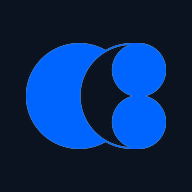
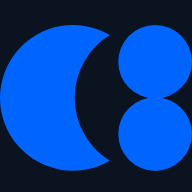
fix(brand): restore definitive 9q798dbg2 assets and SVG lockup shell
Recover Rubio/Maria binaries, favicon suite and symbol from the rendered
Vercel baseline; switch BrandLockup to official SVG masters at h-8/h-9 and
align crop/tokens with computed baseline values.

diff --git a/app/globals.css b/app/globals.css
@@ -59,13 +59,13 @@
 
     --muted: 220 16% 94%;
     /* Institutional deepening — charcoal body authority */
-    --muted-foreground: 220 16% 22%;
+    --muted-foreground: 220 10% 40%;
     --body-secondary: 220 12% 32%;
 
-    --accent: 0 93% 34%;
+    --accent: 0 99% 37%;
     --accent-foreground: 0 0% 100%;
 
-    --destructive: 0 93% 34%;
+    --destructive: 0 99% 37%;
     --destructive-foreground: 0 0% 100%;
 
     --border: 220 14% 88%;
@@ -82,9 +82,9 @@
     --brand-blue-light: 210 100% 63%; /* #42A1FF */
     --brand-blue-mid: 212 100% 49%; /* #0074F8 */
     --brand-blue-deep: 214 100% 44%; /* #0062DE royal */
-    --brand-red: 0 93% 34%; /* #A80606 */
+    --brand-red: 0 99% 37%; /* definitive baseline computed */
     --brand-cream: 48 69% 90%; /* #F7F0D4 — strategic highlight only */
-    --brand-dark: 0 0% 17%; /* #2B2B2B charcoal */
+    --brand-dark: 0 0% 21%; /* definitive baseline charcoal */
     --brand-off-white: 0 0% 98%; /* #FAFAFA */
     --brand-navy: 220 48% 8%; /* #0B1220 primary environment */
 
@@ -95,14 +95,26 @@
     --shadow-card: 0 1px 3px 0 rgb(0 0 0 / 0.06), 0 1px 2px -1px rgb(0 0 0 / 0.06);
     --shadow-card-hover: 0 4px 12px -2px rgb(0 0 0 / 0.08), 0 2px 6px -2px rgb(0 0 0 / 0.04);
 
+    /* Text tokens from definitive deployment 9q798dbg2 */
+    --text-primary: #0b1220;
+    --text-secondary: #3d4654;
+    --text-muted: #5c6573;
+    --text-label: #be0100;
+    --text-link: #0052c4;
+    --text-accent: #0052c4;
+    --text-inverse: #fafafa;
+    --text-primary-on-dark: #f7f8fa;
+    --text-secondary-on-dark: rgba(247, 248, 250, 0.84);
+    --text-muted-on-dark: rgba(247, 248, 250, 0.66);
+    --text-label-on-dark: rgba(247, 248, 250, 0.55);
+    --text-link-on-dark: #9ec5ff;
+
     /* Existing site aliases (components, inline styles) */
     --bg-base: hsl(var(--background));
     --surface-1: hsl(var(--surface-elevated));
     --surface-2: #ecefea;
     --surface-card: #ffffff;
-    --text-primary: hsl(var(--foreground));
-    --text-muted: hsl(var(--muted-foreground));
-    --text-soft: rgba(26, 29, 33, 0.55);
+    --text-soft: var(--text-muted);
     --primary-blue: hsl(var(--primary));
     --primary-blue-hover: #214c82;
     --accent-red: hsl(var(--accent));
@@ -110,14 +122,14 @@
     --off-black: hsl(var(--surface-elevated));
     --card-hover: #f5f6f3;
     --card-bg: #ffffff;
-    --border-light: rgba(26, 29, 33, 0.06);
+    --border-light: rgba(11, 18, 32, 0.08);
     --blue: hsl(var(--primary));
     --blue-light: hsl(var(--primary));
     --blue-dim: hsl(var(--primary) / 0.07);
     --blue-border: hsl(var(--primary) / 0.14);
-    --white: hsl(var(--foreground));
-    --white-60: hsl(var(--muted-foreground));
-    --white-40: rgba(26, 29, 33, 0.55);
+    --white: var(--text-primary);
+    --white-60: var(--text-secondary);
+    --white-40: var(--text-muted);
     --white-25: rgba(26, 29, 33, 0.42);
     --white-10: rgba(26, 29, 33, 0.12);
     --white-05: rgba(26, 29, 33, 0.05);
@@ -1648,20 +1660,25 @@ footer .heading-lg,
 }
 .team-photo--rubio .home-leadership-trust__photo,
 .team-photo--rubio-home .home-leadership-trust__photo {
-  object-position: 49% 18%;
+  object-fit: cover;
+  object-position: 50% 38%;
+  transform: none;
 }
 .team-photo--rubio .team-card-photo,
 .team-photo--rubio-team .team-card-photo {
-  object-position: 49% 18%;
+  object-fit: cover;
+  object-position: 50% 38%;
+  transform: none;
 }
 @media (max-width: 639px) {
   .team-photo--rubio .team-card-photo,
   .team-photo--rubio-team .team-card-photo {
-    object-position: 49% 18%;
+    object-position: 50% 38%;
+    transform: none;
   }
 }
 .team-photo--maria .team-card-photo,
-.team-photo--maria .home-leadership-trust__photo { object-position: 50% 40%; }
+.team-photo--maria .home-leadership-trust__photo { object-position: 56% 30%; }
 .team-photo--rodrigo .team-card-photo { object-position: 50% 40%; }
 .team-photo--esther .team-card-photo { object-position: 50% 42%; }
 .team-photo--caroline .team-card-photo { object-position: 50% 40%; }
@@ -1797,8 +1814,8 @@ footer .heading-lg,
 /* ── Rubio video refinement: typography, cookie/WA (leadership cards finalised below) ── */
 
 .team-photo--rubio .home-leadership-trust__photo,
-.team-photo--rubio-home .home-leadership-trust__photo { object-position: 49% 18%; }
-.team-photo--maria .home-leadership-trust__photo { object-position: 50% 40%; }
+.team-photo--rubio-home .home-leadership-trust__photo { object-position: 50% 38%; transform: none; }
+.team-photo--maria .home-leadership-trust__photo { object-position: 56% 30%; }
 .home-leadership-trust__line {
   margin-top: 0.75rem;
   font-size: 0.9375rem;

diff --git a/components/BrandLockup.tsx b/components/BrandLockup.tsx
@@ -4,13 +4,13 @@ type Variant = "on-light" | "on-dark";
 type Surface = "nav" | "footer";
 
 /**
- * Official Octus lockup — closed-model symbol + Unigeo wordmark shell.
- * Full PNG lockups remain available as brand assets; nav/footer use this shell.
+ * Official Octus SVG lockup from definitive deployment 9q798dbg2 / dpl_437tawko…
+ * Nav and footer use official SVG masters — not a reconstructed HTML wordmark.
  */
 export default function BrandLockup({
   variant = "on-light",
   surface = "nav",
-  className = "h-10 w-auto md:h-11",
+  className = "h-8 w-auto md:h-9",
   priority = false,
 }: {
   variant?: Variant;
@@ -18,28 +18,29 @@ export default function BrandLockup({
   className?: string;
   priority?: boolean;
 }) {
-  const symbolSrc = BRAND.symbol.blue;
-  const wordTone =
-    variant === "on-dark" || surface === "footer"
-      ? "brand-lockup__wordmark--on-dark"
-      : "brand-lockup__wordmark--on-light";
+  const src =
+    surface === "footer"
+      ? BRAND.lockup.horizontalPrimaryOnDark
+      : variant === "on-dark"
+        ? BRAND.lockup.navOnDark
+        : BRAND.lockup.navOnLight;
+
+  const dims =
+    surface === "footer"
+      ? { width: 220, height: 48 }
+      : { width: 200, height: 42 };
 
   return (
-    <span className={`brand-lockup ${className}`} role="img" aria-label="Octus Consulting">
-      {/* eslint-disable-next-line @next/next/no-img-element */}
-      <img
-        src={symbolSrc}
-        alt=""
-        width={36}
-        height={36}
-        decoding="async"
-        aria-hidden="true"
-        {...(priority ? { fetchPriority: "high" as const } : {})}
-        className="brand-lockup__symbol"
-      />
-      <span className={`brand-lockup__wordmark ${wordTone}`} aria-hidden="true">
-        OCTUS
-      </span>
-    </span>
+    // eslint-disable-next-line @next/next/no-img-element
+    <img
+      src={src}
+      alt="Octus Consulting"
+      width={dims.width}
+      height={dims.height}
+      decoding="async"
+      {...(priority ? { fetchPriority: "high" as const } : {})}
+      className={`site-header__logo ${className}`}
+      style={{ imageRendering: "auto" }}
+    />
   );
 }

diff --git a/components/Nav.tsx b/components/Nav.tsx
@@ -81,11 +81,11 @@ export default function Nav() {
   }, []);
 
   const linkClass = overDarkHero
-    ? "font-sans text-[12px] tracking-[0.02em] text-white/70 no-underline transition-colors hover:text-white focus-visible:outline focus-visible:outline-2 focus-visible:outline-offset-4 focus-visible:outline-white md:text-[12.5px]"
-    : "font-sans text-[12px] tracking-[0.02em] text-foreground/65 no-underline transition-colors hover:text-primary focus-visible:outline focus-visible:outline-2 focus-visible:outline-offset-4 focus-visible:outline-primary md:text-[12.5px]";
+    ? "font-sans text-[12px] tracking-[0.02em] text-[color:var(--text-secondary-on-dark)] no-underline transition-colors hover:text-white focus-visible:outline focus-visible:outline-2 focus-visible:outline-offset-4 focus-visible:outline-white md:text-[12.5px]"
+    : "font-sans text-[12px] tracking-[0.02em] text-[color:var(--text-secondary)] no-underline transition-colors hover:text-[color:var(--text-link)] focus-visible:outline focus-visible:outline-2 focus-visible:outline-offset-4 focus-visible:outline-primary md:text-[12.5px]";
 
   const ctaClass =
-    "inline-flex items-center rounded-sm bg-primary px-4 py-2 font-sans text-[12px] font-medium tracking-[0.03em] text-primary-foreground no-underline transition-colors hover:bg-primary/90 focus-visible:outline focus-visible:outline-2 focus-visible:outline-offset-2 focus-visible:outline-primary md:px-5 md:text-[12.5px]";
+    "inline-flex items-center rounded-sm bg-primary px-4 py-2 font-sans text-[12px] font-medium tracking-[0.03em] text-primary-foreground no-underline transition-colors hover:bg-primary/90 focus-visible:outline focus-visible:outline-2 focus-visible:outline-offset-2 focus-visible:outline-primary md:px-5 md:text-[12.5px] min-h-11";
 
   return (
     <>
@@ -109,7 +109,7 @@ export default function Nav() {
           >
             <BrandLockup
               variant={overDarkHero ? "on-dark" : "on-light"}
-              className="site-header__logo h-10 w-auto md:h-11"
+              className="site-header__logo h-8 w-auto md:h-9"
               priority
             />
           </Link>

diff --git a/app/layout.tsx b/app/layout.tsx
@@ -35,6 +35,7 @@ export const metadata: Metadata = {
   metadataBase: new URL("https://octusconsulting.com"),
   icons: {
     icon: [
+      { url: "/brand/favicons/octus-favicon-blue.svg", type: "image/svg+xml" },
       { url: "/favicon.ico", sizes: "any" },
       { url: "/favicon-16.png", sizes: "16x16", type: "image/png" },
       { url: "/favicon-32.png", sizes: "32x32", type: "image/png" },
@@ -106,12 +107,9 @@ export default function RootLayout({
                 <BrandLockup
                   variant="on-dark"
                   surface="footer"
-                  className="h-10 w-auto md:h-11"
+                  className="h-8 w-auto md:h-9"
                 />
               </a>
-              <p className="site-footer__brand-close__wordmark" aria-hidden="true">
-                OCTUS
-              </p>
               <p className="site-footer__brand-close__line">
                 Premium international execution partner for highly regulated operations.
               </p>
